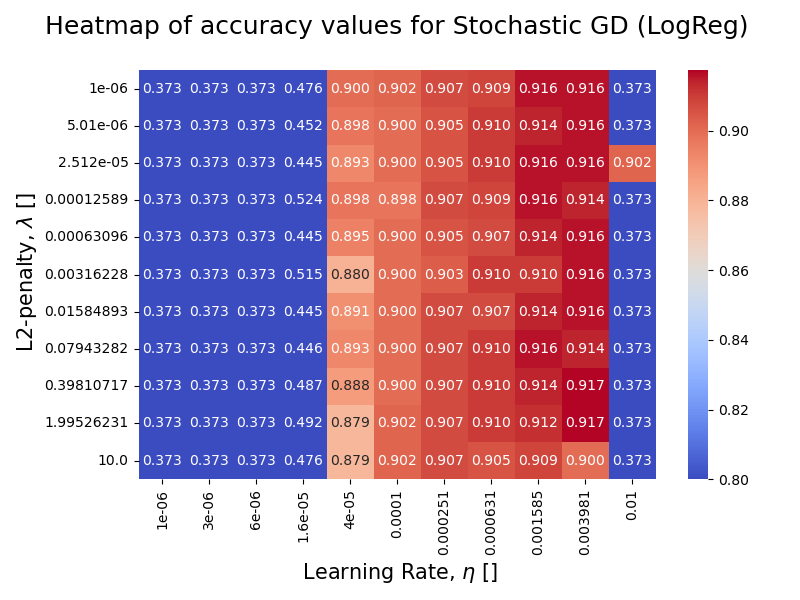
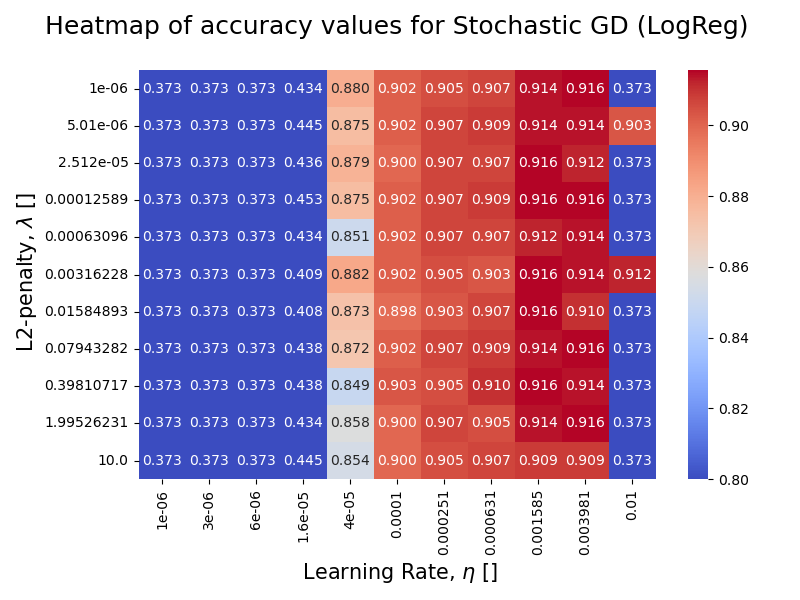
did some tweaks and added printing of final parameters

diff --git a/task_e.py b/task_e.py
@@ -115,6 +115,11 @@ class LogisticRegression:
 
 if __name__ == "__main__":
     
+    print("When interpreting the confusion matrix: Benign (no cancer) = 1, Malignant (cancer) = 0")
+    print("Upper right: True=0, Predicted=0.   Upper left: True=0, Predicted=1")
+    print("Lower right: True=1, Predicted=0.   Lower left: True=1, Predicted=1")
+    print('\n')
+    
     # ---------------- NOTES -------------------
     # 
     # figsize=(8,8)
@@ -139,11 +144,11 @@ if __name__ == "__main__":
     for i, eta in enumerate(eta_vals):
         for j, lmb in enumerate(lmbd_vals):
             try:
-                modelGD = LogisticRegression(learning_rate=eta, t1=10, gamma=0.1, lam=lmb,
+                modelGD = LogisticRegression(learning_rate=eta, t1=10, gamma=0, lam=lmb,
                                            num_iterations=1000, n_epochs=100, 
                                            m=10, overflow=True
                                            )
-                modelSGD = LogisticRegression(learning_rate=eta, t1=10, gamma=0.1, lam=lmb,
+                modelSGD = LogisticRegression(learning_rate=eta, t1=10, gamma=0, lam=lmb,
                                            num_iterations=1000, n_epochs=100, 
                                            m=10, overflow=True
                                            )
@@ -161,13 +166,14 @@ if __name__ == "__main__":
 
 
     
-    final_model = LogisticRegression(learning_rate=0.003981, t1=10, gamma=0.1, lam=1.99526231,
+    final_model = LogisticRegression(learning_rate=0.003981, t1=10, gamma=0, lam=1.99526231,
                                      num_iterations=1000, n_epochs=100, 
                                      m=10, overflow=True
                                      )
     
     final_model.SGDfit(X, y)
     final_predictions = final_model.predict(X)
+    print("Logistic Regression: eta=0.003981, lambda=1.99526231, t1=10, n_epochs=100, m=10")
     print(f"Test set accuracy with Logistic Regression: = {accuracy_score(y, final_predictions):.3f}")
     print(f"log_loss = {log_loss(y, final_predictions):.3f}")
     print(f"Confusion Matrix = {confusion_matrix(y, final_predictions, normalize='true')}")
@@ -192,6 +198,7 @@ if __name__ == "__main__":
     y_predSK = logreg.predict(X)
     
     #from sklearn.preprocessing import LabelEncoder
+    print("Scikit-learn: No parameters to tune")
     print("Test set accuracy with Logistic Regression (Scikit-Learn) = {:.3f}".format(logreg.score(X, y)))
     print(f"log_loss = {log_loss(y, y_predSK):.3f}")
     print(f"Confusion Matrix = {confusion_matrix(y, y_predSK, normalize='true')}")
@@ -239,6 +246,7 @@ if __name__ == "__main__":
     
     accuracyNN = MLP.fit(X, y, n_batches = 10, n_epochs = 100, eta = 15.848932, t1=10, lmb = 0.000631, delta_mom = 0, method = 'SGD', scale_bool = True, tol = 1e-17)
     y_predNN = accuracyNN[-1]
+    print("Neural Network without hidden layers: eta=15.848932, lambda = 0.000631, t1=10, n_epochs=100, m=10")
     print(f"Test set accuracy for Neural Network without hidden layers = {accuracy_score(y, y_predNN):.3f}")
     print(f"log_loss = {log_loss(y, y_predNN):.3f}")
     print(f"Confusion Matrix = {confusion_matrix(y, y_predNN, normalize='true')}")

diff --git a/task_d_OP.py b/task_d_OP.py
@@ -1102,9 +1102,10 @@ if __name__ == "__main__":
     iMomGD, jMomGD = plot_heatmap(accuracy_listMomGD.T, lmbd_vals, eta_vals, 'Momentum-GD', saveplot=False, vmin = 0.85)
     
     
-    
     #By inspecting these plots we determine the optimal lambda, which will be used in
     #RMSprop which we assume has the same optimal lambda.
+    #Momentum GD tells us that a very small lambda is optimal.
+    #Will choose 0 since it coincides with findings from other subtasks.
     
     #After testing RMSprop the actual optimal lambda is 0
     
@@ -1130,37 +1131,32 @@ if __name__ == "__main__":
             except RuntimeWarning:
                 MLP.reset_weights()
                 continue;  
+    print('\n')
     
     i_max, j_max = plot_heatmap(accuracy_list.T, m_list, eta_vals, title='RMSprop', vmin=0.95, saveplot=False)
     
     #By eye: best values: m=30, eta=0.0032 (24.10.2024)
+    #By eye: best values: m=80, eta=0.0032 (25.10.2024)
+    #There are however MULTIPLE possible combinations with 100% accuracy
     
     
     
     final_accuracy = MLP.fit(X, y, n_batches=80, n_epochs=100, eta=0.0032, lmb=0, delta_mom=0, method = 'RMSprop', scale_bool = True, tol = 1e-17)
     
-    #The true positive, false positive etc. rates are the number of cases divided by
+    #The true positive, false positive etc. values from .fit() are the number of cases divided by
     #total cases. Therefore TP+TN+FP+FN=1
     #In the confusion matrix TP+FP=1 and TN+FN=1
+    print("When interpreting the confusion matrix: Benign (no cancer) = 1, Malignant (cancer) = 0")
+    print("Upper right: True=0, Predicted=0.   Upper left: True=0, Predicted=1")
+    print("Lower right: True=1, Predicted=0.   Lower left: True=1, Predicted=1")
+    print('\n')
     
+    print("Neural Network: m=80, n_batches=100, eta=0.0032, lambda=0")
     print(f"Accuracy: {final_accuracy[0]:.3f}, TP: {final_accuracy[1]:.3f}, TN: {final_accuracy[2]:.3f}, FP: {final_accuracy[3]:.3f}, FN: {final_accuracy[4]:.3f}")
     print('\n')
+    
+    
     
     y_pred = final_accuracy[-1]
     print(f"log_loss = {log_loss(y, y_pred)}")
     print(f"Confusion Matrix = {confusion_matrix(y, y_pred, normalize='true')}")
-    
-    """
-    Only 0.280 percent of people who had cancer were missed by this model.
-    This translates to 0.176 percent of the total number of cases being false negatives.
-    Since the dataset contains 569 different cases, there was 1 person who had
-    cancer that the model missed.
-    On the other hand, 2 people who didn't have cancer got more stress than they
-    had to. 
-    
-    As of 24.10.2024 this is miles ahead of the logistic regression version
-    that had about a 90 percent total accuracy
-    
-    25.10.2024: After some changes to RMSprop (I think that is the reason) the
-    possible models are better with some of them at 100% accuracy
-    """
